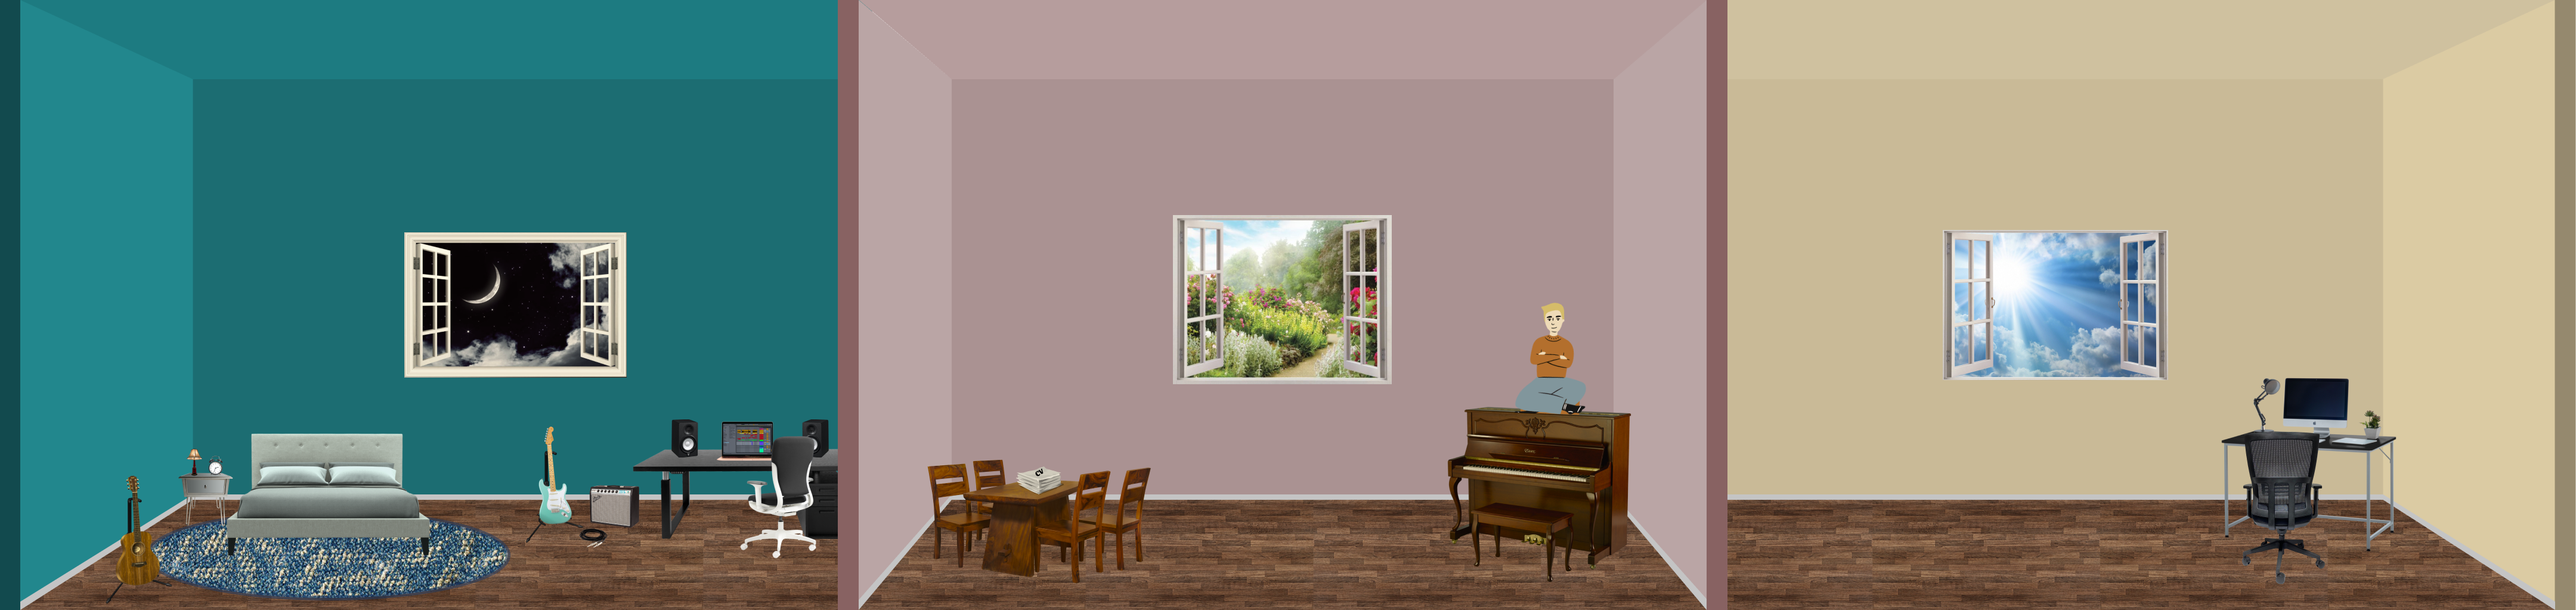
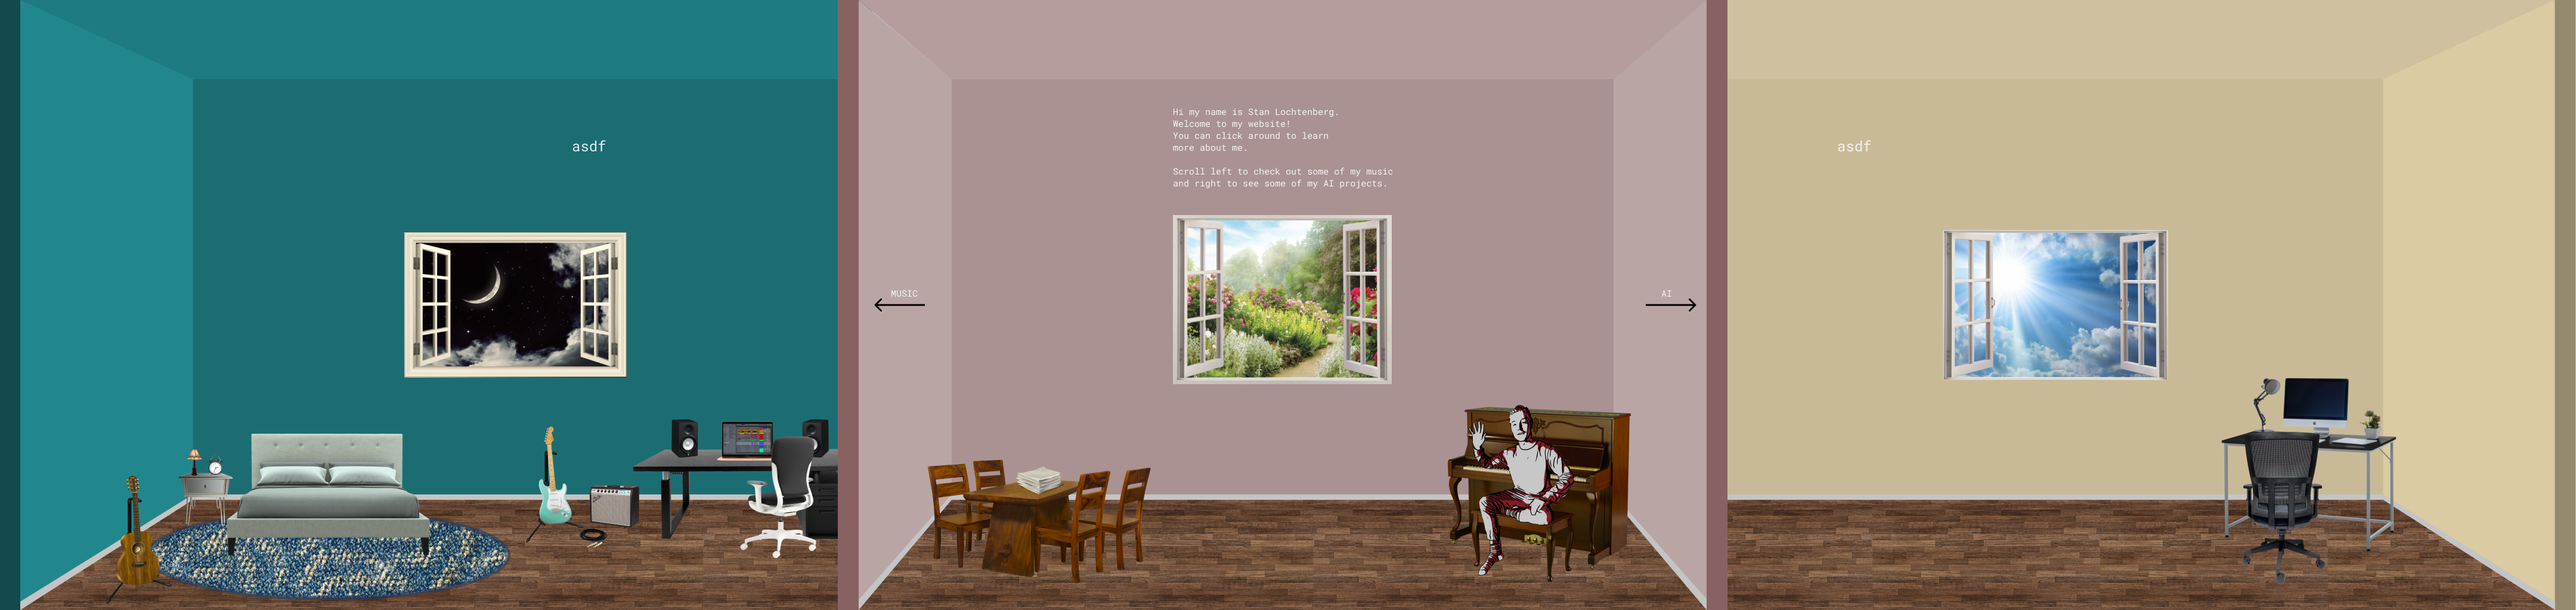
update

Changed region(s): [[0.5625, 0.5, 0.625, 0.9375], [0.4688, 0.2812, 0.5312, 0.3125], [0.4688, 0.1875, 0.5, 0.25]]

diff --git a/index.html b/index.html
@@ -1,46 +1,87 @@
+<!DOCTYPE html>
 <html lang="en">
-    <head>
-        <meta charset="UTF-8">
-        <meta http-equiv="X-UA-Compatible" content="IE=edge">
-        <meta name="viewport">
-        <title>My house</title>
+<head>
+    <meta charset="UTF-8">
+    <meta http-equiv="X-UA-Compatible" content="IE=edge">
+    <meta name="viewport" content="width=device-width, initial-scale=1.0">
+    <title>Inside</title>
 
-        <link rel="stylesheet" href="https://stackpath.bootstrapcdn.com/bootstrap/4.3.1/css/bootstrap.min.css" integrity="sha384-ggOyR0iXCbMQv3Xipma34MD+dH/1fQ784/j6cY/iJTQUOhcWr7x9JvoRxT2MZw1T" crossorigin="anonymous">
-        <link rel="stylesheet" href="style.css">
-        <script src="https://ajax.googleapis.com/ajax/libs/jquery/3.5.1/jquery.min.js"></script>
-    </head>
+    <link href="https://cdn.jsdelivr.net/npm/bootstrap@5.0.0-beta3/dist/css/bootstrap.min.css" rel="stylesheet" integrity="sha384-eOJMYsd53ii+scO/bJGFsiCZc+5NDVN2yr8+0RDqr0Ql0h+rP48ckxlpbzKgwra6" crossorigin="anonymous">
+    <link rel="stylesheet" href="insidestyle.css">
+    <script src="https://ajax.googleapis.com/ajax/libs/jquery/3.5.1/jquery.min.js"></script>
+    <script src="https://www.youtube.com/player_api"></script>
+</head>
 
-    <body>
-        <div class="hill">
-            <div class="typewriter">
-                <h1>Hi, welcome to my house</h1>
-            </div>
+<body>   
+    <div class="main-header">
 
-            <div class="house">
-                <div class="roof">
-                    <div class="smoke1"></div>
-                    <div class="smoke2"></div>
-                    <div class="chimney"></div>
+        <div class="laptop" onclick='playAudio("media/4weken.mp3")'> </div>
+        <div class="gitaar" onclick='playAudio("media/dag_vaarwel.wav")'> </div>
+
+        <div class="sputnik" data-bs-toggle="modal" data-bs-target="#sputnikmodal"></div>
+
+
+        <div class="zwemjas" data-bs-toggle="modal" data-bs-target="#zwemjasmodal"></div>
+
+        <div class="resume" onclick="location.href='https://www.google.com';" > </div>
+
+
+        <!-- Modals -->
+        <div class="modal fade" id="zwemjasmodal" tabindex="-1" aria-labelledby="exampleModalLabel" aria-hidden="true">
+            <div class="modal-dialog modal-xl modal-dialog modal-dialog-scrollable modal-dialog-centered">
+            <div class="modal-content">
+                <div class="modal-header">
+                <h2 class="modal-title d-flex justify-content-center" id="exampleModalLabel">Zwemjas</h2>
+                <button type="button" class="btn-close" data-bs-dismiss="modal" aria-label="Close"></button>
                 </div>
-                <div class="wall">
-                    <div class="window">
-                        <div class="inside"></div>
-                    </div>
+                <div class="modal-body">
+                  <p>Oh, hi. how are you? this is zeekoe</p> 
+                
+                    <iframe width="100%" height="166" scrolling="no" frameborder="no" allow="autoplay" src="https://w.soundcloud.com/player/?url=https%3A//api.soundcloud.com/tracks/760285450&color=%23233746&auto_play=false&hide_related=false&show_comments=true&show_user=true&show_reposts=false&show_teaser=true"></iframe>
+                    <iframe width="100%" height="166" scrolling="no" frameborder="no" allow="autoplay" src="https://w.soundcloud.com/player/?url=https%3A//api.soundcloud.com/tracks/1037344723&color=%23e5da6a&auto_play=false&hide_related=false&show_comments=true&show_user=true&show_reposts=false&show_teaser=true"></iframe>
+                    <iframe width="100%" height="166" scrolling="no" frameborder="no" allow="autoplay" src="https://w.soundcloud.com/player/?url=https%3A//api.soundcloud.com/tracks/791695738&color=%236db5b8&auto_play=false&hide_related=false&show_comments=true&show_user=true&show_reposts=false&show_teaser=true"></iframe>
+                    <iframe width="100%" height="166" scrolling="no" frameborder="no" allow="autoplay" src="https://w.soundcloud.com/player/?url=https%3A//api.soundcloud.com/tracks/852803452&color=%23b5a7b8&auto_play=false&hide_related=false&show_comments=true&show_user=true&show_reposts=false&show_teaser=true"></iframe>
+                    <iframe width="100%" height="166" scrolling="no" frameborder="no" allow="autoplay" src="https://w.soundcloud.com/player/?url=https%3A//api.soundcloud.com/tracks/759659830&color=%23b5a7b8&auto_play=false&hide_related=false&show_comments=true&show_user=true&show_reposts=false&show_teaser=true"></iframe>
 
-                    <div class="doorframe"></div>
-                    <div class="backDoor" onclick="goInside()">
-                        <div class="door" id="deur"></div>
+                    <div class="px-5 pb-5 mx-5">
+                        <div class="ratio ratio-16x9">
+                            <iframe id="zeekoe" width="100" height="50" src="https://www.youtube.com/embed/xXXk2Ox5yS8?enablejsapi=1" title="YouTube video player" allow="accelerometer; autoplay; clipboard-write; encrypted-media; gyroscope; picture-in-picture" allowfullscreen></iframe>
+                        </div>
                     </div>
+                
+                </div>
+                
+
                 </div>
             </div>
-
-
+            </div>
         </div>
 
-        <!-- <section>
-                    <button>hahah</button>
-        
-                </section> -->
+        <div class="modal fade" id="sputnikmodal" tabindex="-1" aria-labelledby="sputlabel" aria-hidden="true">
+            <div class="modal-dialog modal-xl modal-dialog modal-dialog-scrollable modal-dialog-centered">
+            <div class="modal-content">
+                <div class="modal-header">
+                <h2 class="modal-title d-flex justify-content-center" id="sputnikmodal">Sputnik2</h2>
+                <button type="button" class="btn-close" data-bs-dismiss="modal" aria-label="Close"></button>
+                </div>
+                <div class="modal-body">
+                  <p>Spacen met een buitenaardswezen? sputnik</p> 
+                <div class="px-5 pb-5 mx-5">
+                    <iframe src="https://open.spotify.com/embed/track/7eSYTTzeIs7UlJUPGOHrIR" width="300" height="80" frameborder="0" allowtransparency="true" allow="encrypted-media"></iframe>
+                    <iframe src="https://open.spotify.com/embed/track/1Jf6rqFMlOIkxc4xGe5Prm" width="300" height="80" frameborder="0" allowtransparency="true" allow="encrypted-media"></iframe>
+                    <iframe src="https://open.spotify.com/embed/track/0yqpqFK7jp6PW1Iz5vjLet" width="300" height="80" frameborder="0" allowtransparency="true" allow="encrypted-media"></iframe>
+                
+                </div>
+                </div>
+            </div>
+            </div>
+        </div>
 
-    </body>
-</html></div><script src="app.js"></script></body></html>
+
+    </div>
+
+
+    <script src="insideapp.js"></script>
+    <script src="https://cdn.jsdelivr.net/npm/bootstrap@5.0.0-beta3/dist/js/bootstrap.bundle.min.js" integrity="sha384-JEW9xMcG8R+pH31jmWH6WWP0WintQrMb4s7ZOdauHnUtxwoG2vI5DkLtS3qm9Ekf" crossorigin="anonymous"></script>
+</body>
+</html>

diff --git a/outside.html b/outside.html
@@ -1,0 +1,46 @@
+<html lang="en">
+    <head>
+        <meta charset="UTF-8">
+        <meta http-equiv="X-UA-Compatible" content="IE=edge">
+        <meta name="viewport">
+        <title>My house</title>
+
+        <link rel="stylesheet" href="https://stackpath.bootstrapcdn.com/bootstrap/4.3.1/css/bootstrap.min.css" integrity="sha384-ggOyR0iXCbMQv3Xipma34MD+dH/1fQ784/j6cY/iJTQUOhcWr7x9JvoRxT2MZw1T" crossorigin="anonymous">
+        <link rel="stylesheet" href="style.css">
+        <script src="https://ajax.googleapis.com/ajax/libs/jquery/3.5.1/jquery.min.js"></script>
+    </head>
+
+    <body>
+        <div class="hill">
+            <div class="typewriter">
+                <h1>Hi, welcome to my house</h1>
+            </div>
+
+            <div class="house">
+                <div class="roof">
+                    <div class="smoke1"></div>
+                    <div class="smoke2"></div>
+                    <div class="chimney"></div>
+                </div>
+                <div class="wall">
+                    <div class="window">
+                        <div class="inside"></div>
+                    </div>
+
+                    <div class="doorframe"></div>
+                    <div class="backDoor" onclick="goInside()">
+                        <div class="door" id="deur"></div>
+                    </div>
+                </div>
+            </div>
+
+
+        </div>
+
+        <!-- <section>
+                    <button>hahah</button>
+        
+                </section> -->
+
+    </body>
+</html></div><script src="app.js"></script></body></html>

diff --git a/insidestyle.css b/insidestyle.css
@@ -34,7 +34,7 @@ body {
 }
 
 .gitaar {
-  background-color: rgba(255, 0, 0, 0.3);
+  background-color: rgba(255, 0, 0, 0);
   position: relative;
   width: 2%;
   height: 19%;
@@ -46,7 +46,7 @@ body {
 }
 
 .sputnik {
-  background-color: rgba(255, 0, 0, 0.3);
+  background-color: rgba(255, 0, 0, 0);
   position: relative;
   width: 7.5vh;
   height: 7.5vh;
@@ -57,7 +57,7 @@ body {
 }
 
 .resume {
-background-color: rgba(255, 0, 0, 0.3);
+background-color: rgba(255, 0, 0, 0);
 position: relative;
 width: 7.3vh;
 height: 4.5vh;
@@ -83,7 +83,8 @@ transform: rotate(0deg);
 }
 
 .modal-content {
-  background-color: rgba(207, 191, 99, 0.952) !important;
-  border-radius: 25px !important;
+  background-color: rgba(158, 189, 235, 0.9) !important;
+  border-radius: 5px !important;
+  border-width: 0;
 }
 
